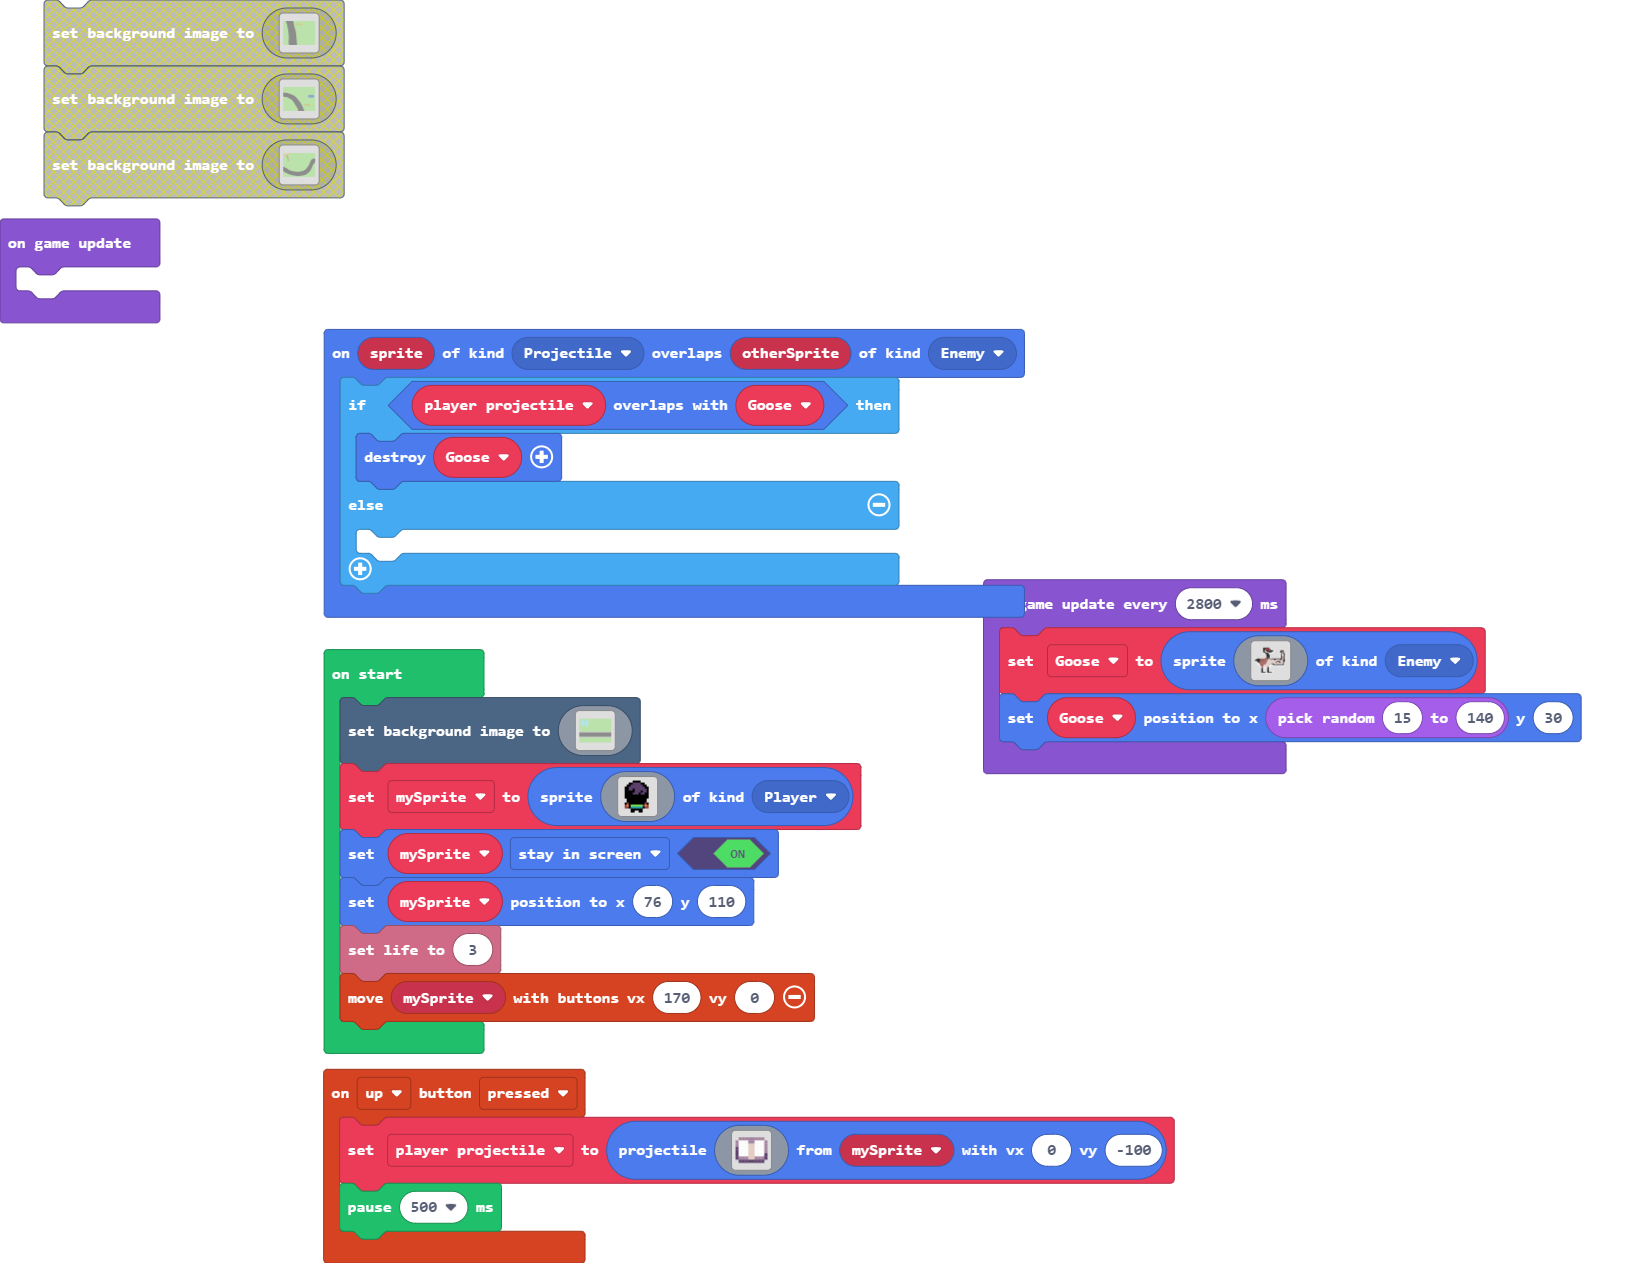
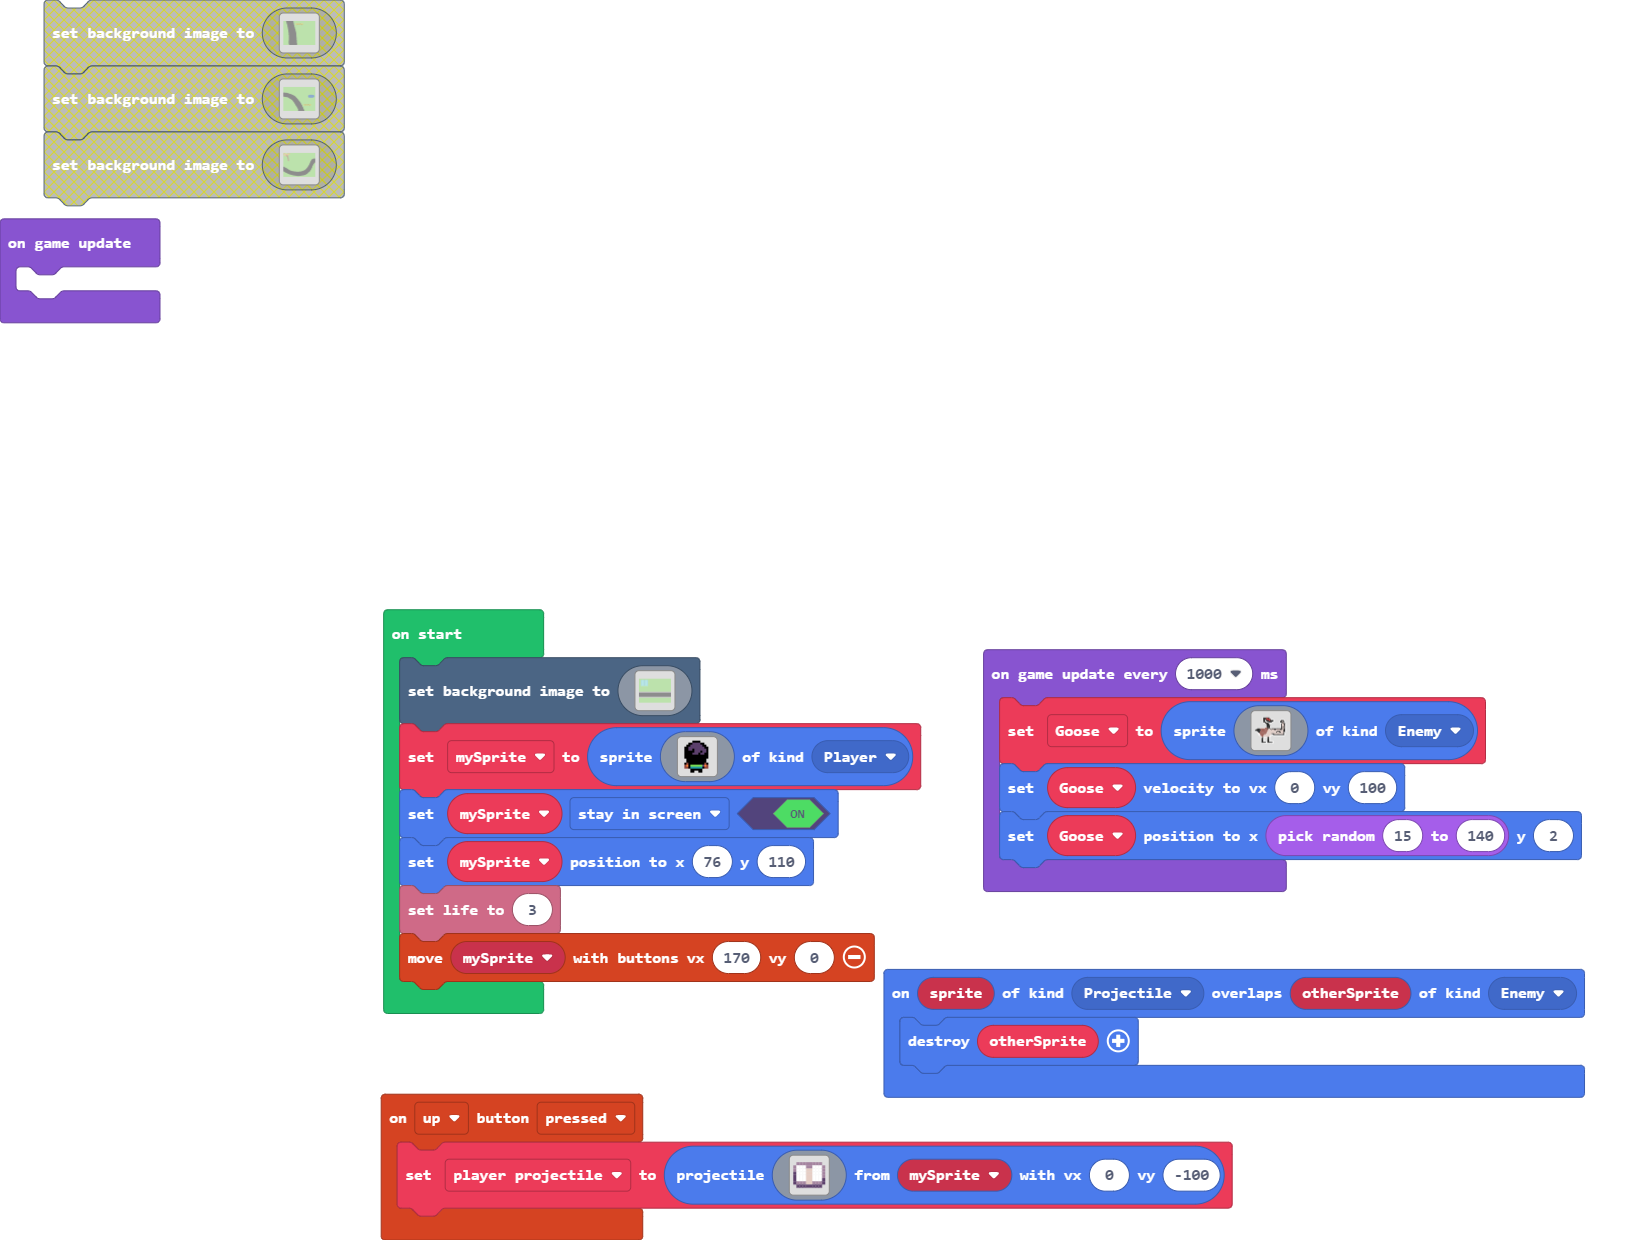
Fixed Projectiles

diff --git a/main.ts b/main.ts
@@ -9,14 +9,9 @@ controller.up.onEvent(ControllerButtonEvent.Pressed, function () {
         c b b b d d b b b c 
         . c c c c c c c c . 
         `, mySprite, 0, -100)
-    pause(500)
 })
 sprites.onOverlap(SpriteKind.Projectile, SpriteKind.Enemy, function (sprite, otherSprite) {
-    if (player_projectile.overlapsWith(Goose)) {
-        Goose.destroy()
-    } else {
-    	
-    }
+    otherSprite.destroy()
 })
 let Goose: Sprite = null
 let player_projectile: Sprite = null
@@ -168,7 +163,7 @@ controller.moveSprite(mySprite, 170, 0)
 game.onUpdate(function () {
 	
 })
-game.onUpdateInterval(2800, function () {
+game.onUpdateInterval(1000, function () {
     Goose = sprites.create(img`
         ..........1111111.....................
         .........1fffffff1....................
@@ -203,5 +198,6 @@ game.onUpdateInterval(2800, function () {
         .......1fffff11ffffff1................
         .......111111111111111................
         `, SpriteKind.Enemy)
-    Goose.setPosition(randint(15, 140), 30)
+    Goose.setVelocity(0, 100)
+    Goose.setPosition(randint(15, 140), 2)
 })
